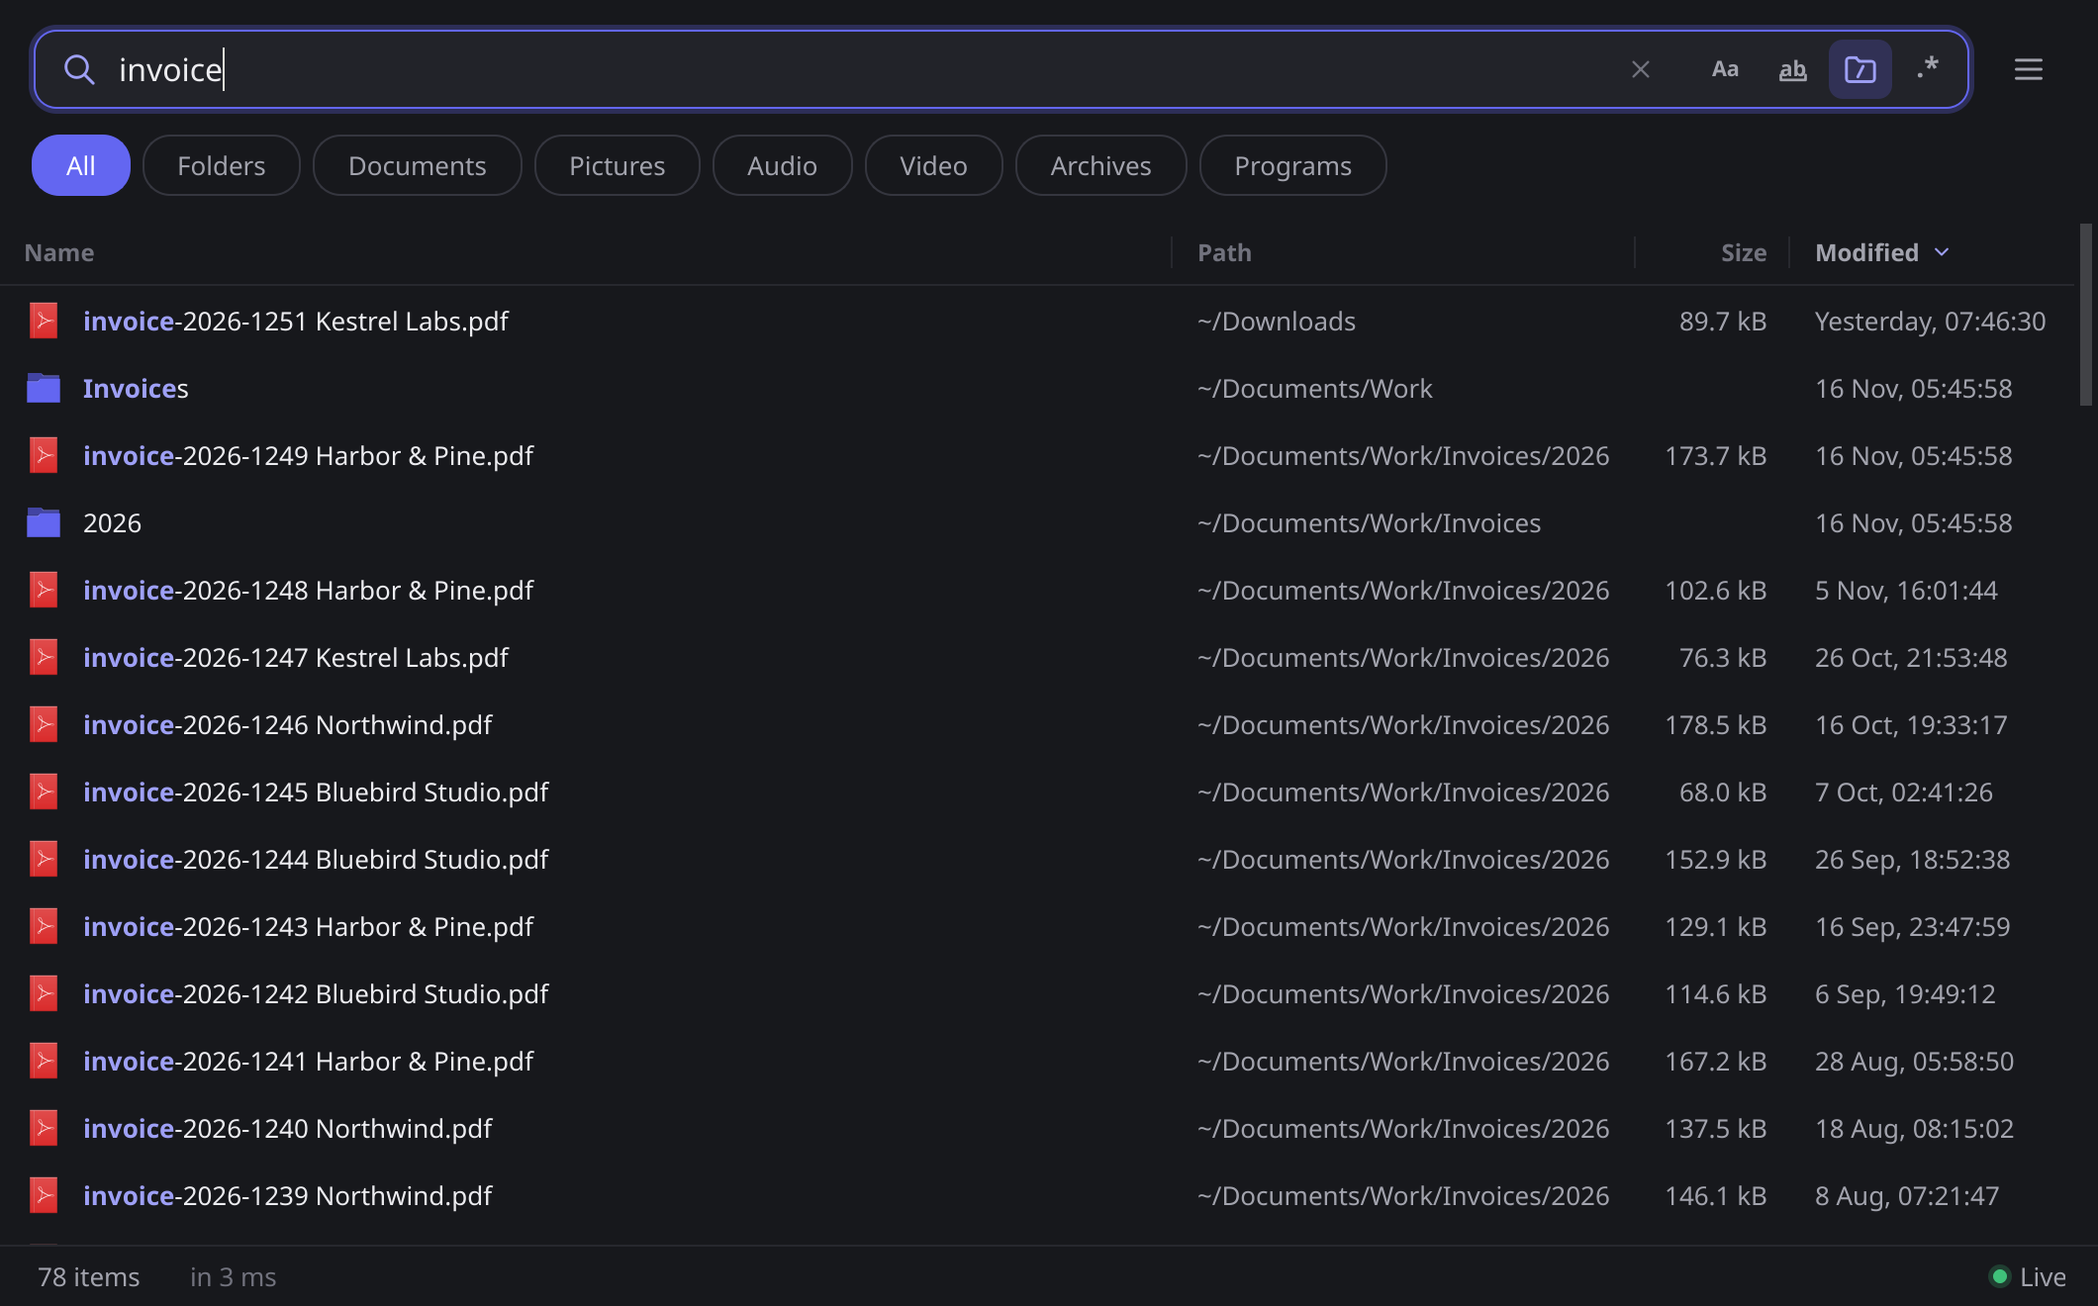
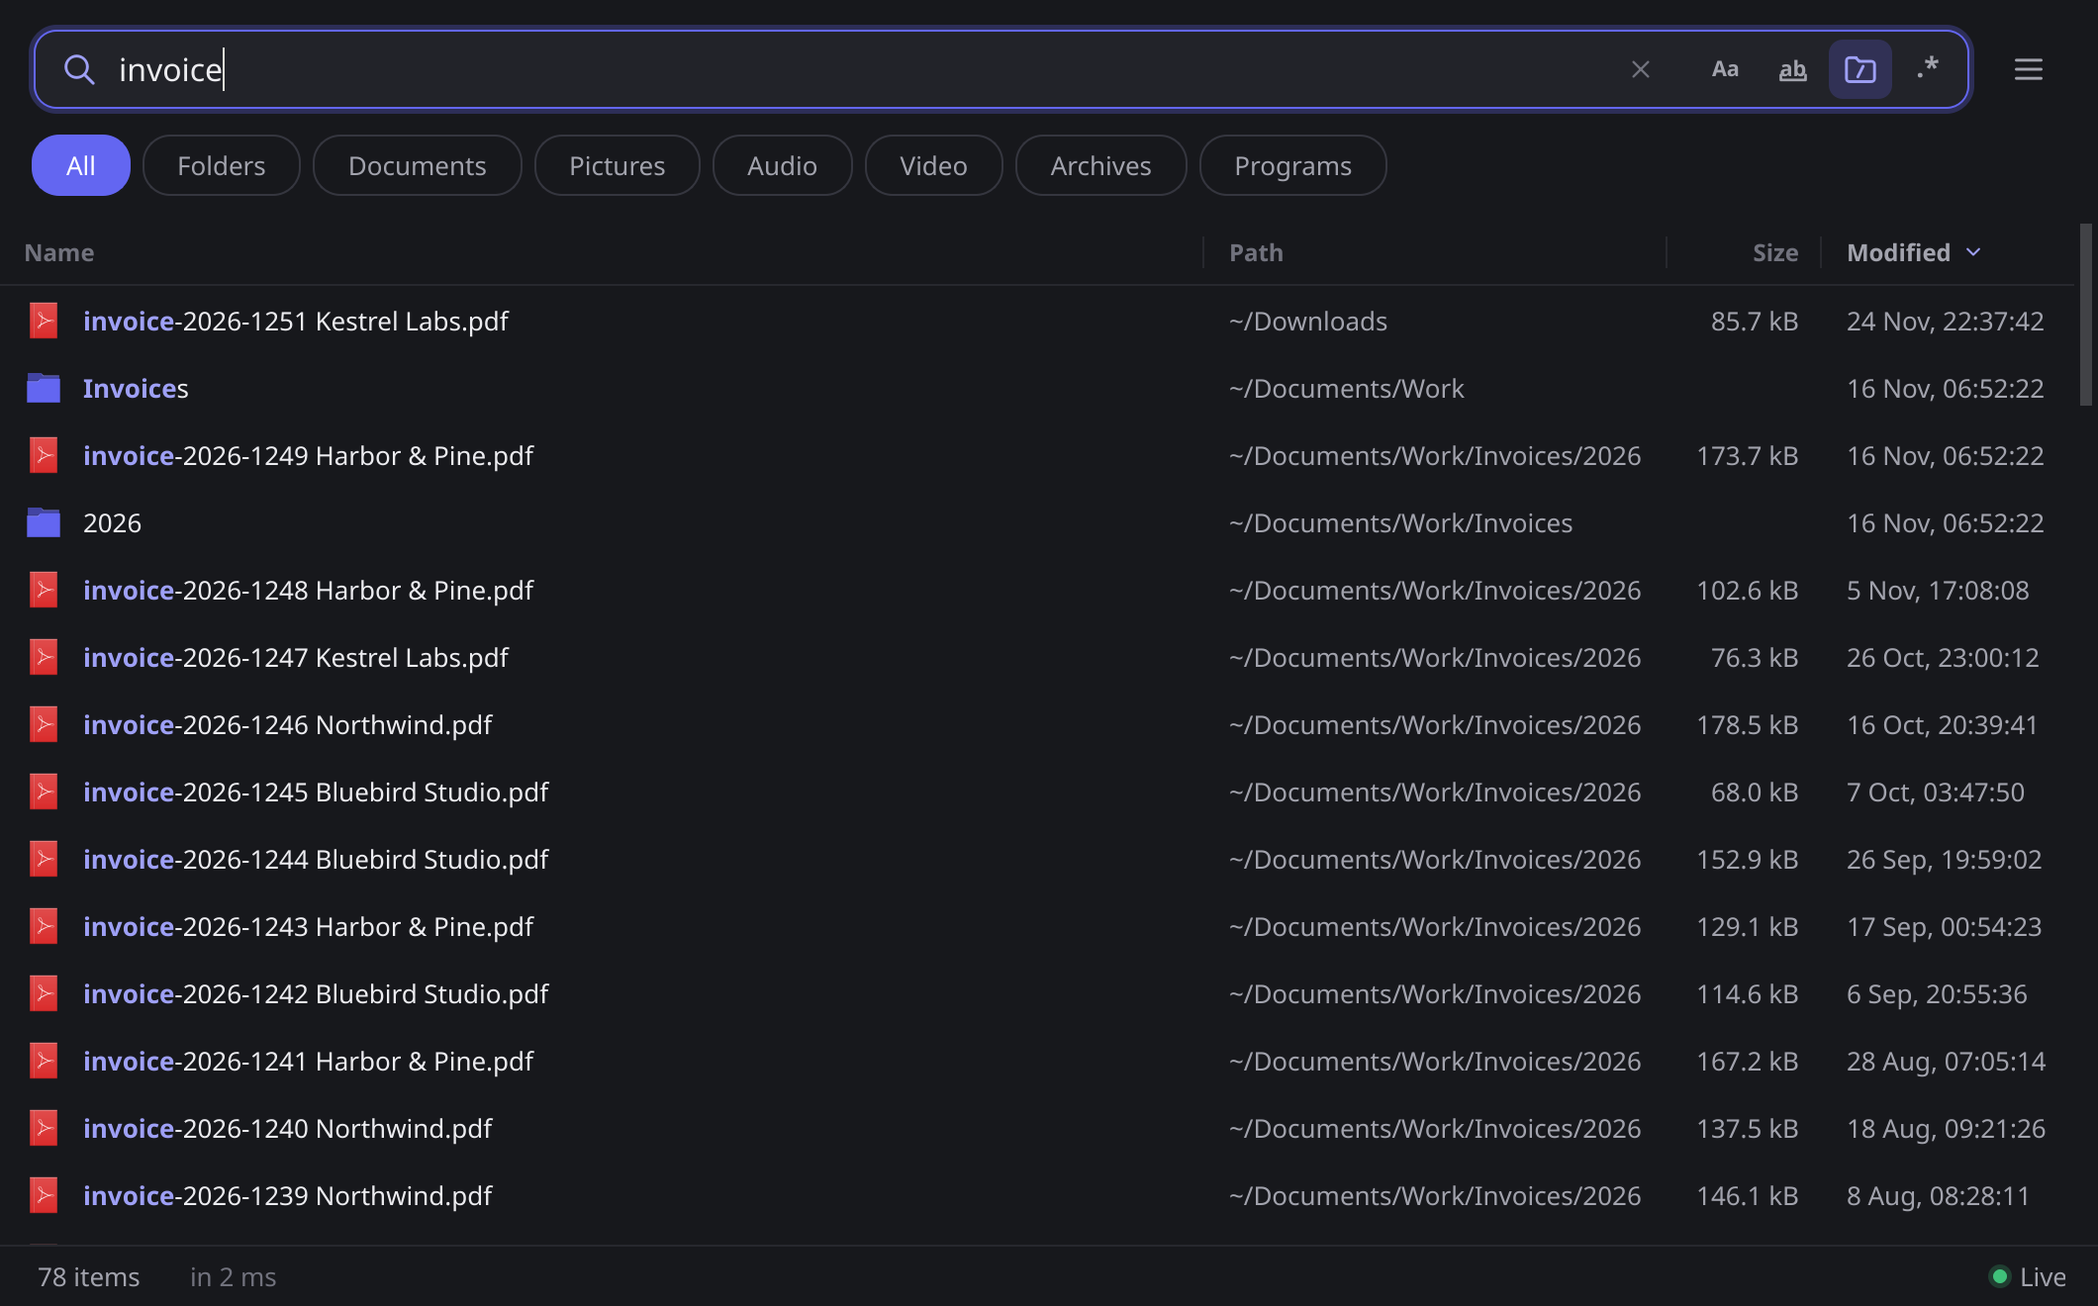
Website: one page for trawlr.io, published with GitHub Pages
site/index.html; the Pages workflow adds the README pictures and icon.
The demo pictures are retaken so the newest files on the made-up machine
are the user's own, not the container's setup. Drops assets/icon.svg,
the unused icon from before the rename.

diff --git a/site/index.html b/site/index.html
@@ -1,0 +1,256 @@
+<!doctype html>
+<html lang="en">
+<head>
+<meta charset="utf-8">
+<meta name="viewport" content="width=device-width, initial-scale=1">
+<title>Trawlr: instant file name search for Linux, Windows and macOS</title>
+<meta name="description" content="Type a few letters and every matching file and folder on your computer is listed before you finish the word. Free and open source, with an index that is always current.">
+<meta property="og:title" content="Trawlr">
+<meta property="og:description" content="Instant file name search for Linux, Windows and macOS, with an index that is always current.">
+<meta property="og:image" content="https://trawlr.io/screenshot-dark.png">
+<meta property="og:url" content="https://trawlr.io/">
+<meta name="twitter:card" content="summary_large_image">
+<link rel="icon" href="icon.svg" type="image/svg+xml">
+<style>
+:root {
+  --accent: #6366f1;
+  --accent-strong: #4f46e5;
+  --on-accent: #ffffff;
+  --canvas: #ffffff;
+  --surface: #f7f7f9;
+  --elevated: #ffffff;
+  --border: #e3e3ea;
+  --text: #18181d;
+  --dim: #5b5c66;
+  --faint: #8a8b96;
+  --code: #f1f1f5;
+  --shadow: 0 24px 60px -20px rgba(30, 30, 60, .28), 0 2px 6px rgba(30, 30, 60, .08);
+  color-scheme: light;
+}
+@media (prefers-color-scheme: dark) {
+  :root {
+    --accent: #7c7ff5;
+    --accent-strong: #6366f1;
+    --canvas: #121317;
+    --surface: #17181c;
+    --elevated: #1c1d22;
+    --border: #2c2d35;
+    --text: #ececf0;
+    --dim: #a2a3ad;
+    --faint: #71727d;
+    --code: #22232a;
+    --shadow: 0 30px 80px -20px rgba(0, 0, 0, .7), 0 2px 8px rgba(0, 0, 0, .4);
+    color-scheme: dark;
+  }
+}
+* { box-sizing: border-box; }
+html { -webkit-text-size-adjust: 100%; scroll-behavior: smooth; }
+body {
+  margin: 0; background: var(--canvas); color: var(--text);
+  font: 16px/1.6 system-ui, -apple-system, "Segoe UI", "Noto Sans", Ubuntu, Cantarell, sans-serif;
+}
+a { color: var(--accent); text-decoration: none; }
+a:hover { text-decoration: underline; }
+code, pre { font-family: ui-monospace, "SF Mono", "Cascadia Code", "JetBrains Mono", "Noto Sans Mono", Menlo, monospace; font-size: .9em; }
+code { background: var(--code); padding: .12em .4em; border-radius: 5px; }
+.wrap { max-width: 1080px; margin: 0 auto; padding: 0 24px; }
+
+header { position: sticky; top: 0; z-index: 10; background: color-mix(in srgb, var(--canvas) 85%, transparent); backdrop-filter: blur(10px); border-bottom: 1px solid var(--border); }
+header .wrap { display: flex; align-items: center; gap: 24px; height: 60px; }
+.brand { display: flex; align-items: center; gap: 10px; font-weight: 700; font-size: 18px; color: var(--text); }
+.brand:hover { text-decoration: none; }
+.brand img { width: 28px; height: 28px; }
+nav { margin-left: auto; display: flex; gap: 22px; font-size: 15px; }
+nav a { color: var(--dim); }
+nav a:hover { color: var(--text); text-decoration: none; }
+
+.hero { text-align: center; padding: 72px 0 40px; }
+.hero h1 { font-size: clamp(34px, 6vw, 58px); line-height: 1.08; letter-spacing: -.025em; margin: 0 auto 18px; max-width: 14ch; }
+.hero p.lead { font-size: clamp(17px, 2.2vw, 20px); color: var(--dim); max-width: 40em; margin: 0 auto 30px; }
+.cta { display: flex; gap: 12px; justify-content: center; flex-wrap: wrap; }
+.btn { display: inline-flex; align-items: center; gap: 8px; padding: 12px 22px; border-radius: 10px; font-weight: 600; font-size: 16px; border: 1px solid var(--border); color: var(--text); background: var(--elevated); }
+.btn:hover { text-decoration: none; border-color: var(--faint); }
+.btn.primary { background: var(--accent-strong); border-color: var(--accent-strong); color: var(--on-accent); }
+.btn.primary:hover { background: var(--accent); border-color: var(--accent); }
+.btn svg { width: 18px; height: 18px; }
+.sub { margin-top: 14px; font-size: 14px; color: var(--faint); }
+.shot { margin: 48px auto 0; max-width: 1000px; border-radius: 14px; overflow: hidden; border: 1px solid var(--border); box-shadow: var(--shadow); background: #17181c; }
+.shot img { display: block; width: 100%; height: auto; }
+
+section { padding: 64px 0; }
+section h2 { font-size: clamp(26px, 3.6vw, 34px); letter-spacing: -.02em; margin: 0 0 10px; }
+section p.intro { color: var(--dim); margin: 0 0 32px; max-width: 46em; }
+.grid { display: grid; grid-template-columns: repeat(auto-fit, minmax(230px, 1fr)); gap: 18px; }
+.card { min-width: 0; background: var(--surface); border: 1px solid var(--border); border-radius: 12px; padding: 22px; }
+.card h3 { margin: 0 0 8px; font-size: 17px; }
+.card p { margin: 0; color: var(--dim); font-size: 15px; }
+.card .num { font-size: 30px; font-weight: 700; letter-spacing: -.02em; color: var(--accent); line-height: 1.1; margin-bottom: 6px; }
+
+table { width: 100%; border-collapse: collapse; font-size: 15px; }
+th, td { text-align: left; padding: 10px 12px; border-bottom: 1px solid var(--border); vertical-align: top; }
+th { color: var(--faint); font-weight: 600; font-size: 13px; text-transform: uppercase; letter-spacing: .04em; }
+td:first-child { white-space: nowrap; }
+.tablewrap { overflow-x: auto; background: var(--surface); border: 1px solid var(--border); border-radius: 12px; }
+.tablewrap table tr:last-child td { border-bottom: 0; }
+
+.platforms { display: grid; grid-template-columns: repeat(auto-fit, minmax(300px, 1fr)); gap: 18px; }
+.platform h3 { display: flex; align-items: center; gap: 10px; }
+.platform ul { margin: 10px 0 0; padding-left: 18px; color: var(--dim); font-size: 15px; }
+.platform li { margin: 6px 0; }
+pre { background: var(--code); border-radius: 8px; padding: 10px 12px; margin: 10px 0 4px; white-space: pre-wrap; overflow-wrap: anywhere; }
+pre code { background: none; padding: 0; }
+
+footer { border-top: 1px solid var(--border); padding: 32px 0 48px; color: var(--faint); font-size: 14px; }
+footer .wrap { display: flex; flex-wrap: wrap; gap: 8px 24px; justify-content: space-between; }
+footer a { color: var(--dim); }
+
+@media (max-width: 640px) {
+  .wrap { padding: 0 16px; }
+  nav { gap: 14px; font-size: 14px; }
+  nav .hide-sm { display: none; }
+  .hero { padding-top: 48px; }
+  .shot { border-radius: 10px; margin-top: 36px; }
+}
+</style>
+</head>
+<body>
+<header>
+  <div class="wrap">
+    <a class="brand" href="#"><img src="icon.svg" alt="">Trawlr</a>
+    <nav>
+      <a class="hide-sm" href="#why">Why</a>
+      <a class="hide-sm" href="#search">Search</a>
+      <a href="#download">Download</a>
+      <a href="https://github.com/SamuelCGilbert/trawlr">GitHub</a>
+    </nav>
+  </div>
+</header>
+
+<main>
+  <div class="wrap hero">
+    <h1>Find any file before you finish typing.</h1>
+    <p class="lead">Trawlr lists every matching file and folder on your computer as you type, and keeps up as files are created, renamed and deleted. No rescans, no waiting. Free and open source, for Linux, Windows and macOS.</p>
+    <div class="cta">
+      <a class="btn primary" id="dl" href="#download">
+        <svg viewBox="0 0 24 24" fill="none" stroke="currentColor" stroke-width="2.2" stroke-linecap="round" stroke-linejoin="round"><path d="M12 4v11m0 0-4.5-4.5M12 15l4.5-4.5M5 20h14"/></svg>
+        <span id="dl-label">Download</span>
+      </a>
+      <a class="btn" href="https://github.com/SamuelCGilbert/trawlr">
+        <svg viewBox="0 0 24 24" fill="currentColor"><path d="M12 2a10 10 0 0 0-3.16 19.49c.5.09.68-.22.68-.48v-1.7c-2.78.6-3.37-1.34-3.37-1.34-.45-1.16-1.11-1.47-1.11-1.47-.91-.62.07-.6.07-.6 1 .07 1.53 1.03 1.53 1.03.9 1.52 2.34 1.08 2.91.83.09-.65.35-1.09.63-1.34-2.22-.25-4.55-1.11-4.55-4.94 0-1.09.39-1.98 1.03-2.68-.1-.25-.45-1.27.1-2.65 0 0 .84-.27 2.75 1.02a9.6 9.6 0 0 1 5 0c1.91-1.29 2.75-1.02 2.75-1.02.55 1.38.2 2.4.1 2.65.64.7 1.03 1.59 1.03 2.68 0 3.84-2.34 4.68-4.57 4.93.36.31.68.92.68 1.85v2.74c0 .27.18.58.69.48A10 10 0 0 0 12 2z"/></svg>
+        Source code
+      </a>
+    </div>
+    <div class="sub" id="dl-sub">Free, open source (GPL-3.0). No account, no telemetry.</div>
+    <div class="shot"><img src="demo.gif" width="1060" height="660" alt="Typing “invoice” lists 78 matches in 2 milliseconds. A new invoice saved to Downloads appears at the top while the search is open. Then “ext:flac” lists the music."></div>
+  </div>
+
+  <section id="why">
+    <div class="wrap">
+      <h2>Fast because it never walks the disk</h2>
+      <p class="intro">Most search tools crawl folders on a schedule, so they are slow to build and always a little out of date. Trawlr keeps every file name in memory and listens to the changes the operating system already records, so its index is built in seconds and is never stale.</p>
+      <div class="grid">
+        <div class="card"><div class="num">1–15 ms</div><h3>Typical search</h3><p>Across 2.8 million files and folders on a laptop. Every keystroke updates the results.</p></div>
+        <div class="card"><div class="num">&lt; 0.2 s</div><h3>New files show up</h3><p>A file created while a search is open appears in it straight away. Deleted files vanish just as fast.</p></div>
+        <div class="card"><div class="num">0.3 s</div><h3>To start</h3><p>The index is saved at shutdown and checked against the disk at start, so changes made while it was off are found too.</p></div>
+        <div class="card"><div class="num">~70 B</div><h3>Per file</h3><p>About 190 MB of memory for 2.8 million entries. Trawlr reads names, sizes and dates, never file contents.</p></div>
+      </div>
+    </div>
+  </section>
+
+  <section id="how" style="padding-top:0">
+    <div class="wrap">
+      <div class="grid">
+        <div class="card"><h3>Linux</h3><p>A system service watches each disk with a single filesystem-wide <code>fanotify</code> mark, so the kernel reports every change, however many folders there are.</p></div>
+        <div class="card"><h3>Windows</h3><p>A Windows service reads each NTFS drive's master file table directly (a million files in about two seconds) and follows its change journal.</p></div>
+        <div class="card"><h3>macOS</h3><p>A launchd daemon reads folders in bulk and follows FSEvents, whose history lets it carry on where it left off after a restart.</p></div>
+        <div class="card"><h3>Keyboard first</h3><p>A global hotkey brings up the window from anywhere. Open, open the folder, copy, or run in a terminal without touching the mouse.</p></div>
+      </div>
+    </div>
+  </section>
+
+  <section id="search" style="background:var(--surface);border-top:1px solid var(--border);border-bottom:1px solid var(--border)">
+    <div class="wrap">
+      <h2>Say exactly what you mean</h2>
+      <p class="intro">Plain words are enough most of the time. When they aren't, the search syntax will be familiar to anyone who has used voidtools' Everything on Windows.</p>
+      <div class="tablewrap">
+        <table>
+          <tr><th>Search</th><th>Finds</th></tr>
+          <tr><td><code>tax 2025</code></td><td>names containing both words</td></tr>
+          <tr><td><code>*.pdf</code>, <code>ext:jpg;png</code></td><td>by wildcard or extension</td></tr>
+          <tr><td><code>photos/ beach</code></td><td>a term with <code>/</code> matches the path, so: “beach”, somewhere under a <em>photos</em> folder</td></tr>
+          <tr><td><code>size:&gt;1gb</code>, <code>dm:lastweek</code></td><td>by size or date modified</td></tr>
+          <tr><td><code>video: !sample</code></td><td>by kind, leaving some out</td></tr>
+          <tr><td><code>regex:^IMG_\d{4}\.jpe?g$</code></td><td>regular expressions, when nothing else will do</td></tr>
+        </table>
+      </div>
+      <p style="margin:18px 0 0;color:var(--dim);font-size:15px">The <a href="https://github.com/SamuelCGilbert/trawlr#search-syntax">full syntax</a> is in the README. There is a <code>trawlr</code> command for the terminal too: <code>trawlr ext:iso size:&gt;1gb</code>.</p>
+    </div>
+  </section>
+
+  <section id="download">
+    <div class="wrap">
+      <h2>Download</h2>
+      <p class="intro">Every download is on the <a href="https://github.com/SamuelCGilbert/trawlr/releases/latest">latest release</a> page, with checksums. Installing needs an administrator, because the indexing service reads every disk; then administrators can search, and you can <a href="https://github.com/SamuelCGilbert/trawlr#who-can-search">let others in</a>.</p>
+      <div class="platforms">
+        <div class="card platform" id="p-windows">
+          <h3>Windows</h3>
+          <p>Windows 10 or 11, x64.</p>
+          <ul>
+            <li><a data-asset="windows-x64-setup.exe" href="https://github.com/SamuelCGilbert/trawlr/releases/latest">Installer (.exe)</a></li>
+            <li>Not code-signed: if SmartScreen stops it, click <em>More info</em>, then <em>Run anyway</em>.</li>
+          </ul>
+        </div>
+        <div class="card platform" id="p-mac">
+          <h3>macOS</h3>
+          <p>macOS 12 or newer, Apple Silicon and Intel.</p>
+          <pre><code>brew install --cask samuelcgilbert/trawlr/trawlr</code></pre>
+          <ul>
+            <li>Or the <a data-asset="macos.pkg" href="https://github.com/SamuelCGilbert/trawlr/releases/latest">installer package (.pkg)</a>: not signed with an Apple Developer ID, so right-click it and choose <em>Open</em> the first time.</li>
+            <li>Then give the daemon <a href="https://github.com/SamuelCGilbert/trawlr#macos">Full Disk Access</a>.</li>
+          </ul>
+        </div>
+        <div class="card platform" id="p-linux">
+          <h3>Linux</h3>
+          <p>Linux 5.9 or newer with systemd; x86-64 and ARM64.</p>
+          <ul>
+            <li>Ubuntu 22.04 and 24.04, Debian 12 and 13, and their derivatives: <code>.deb</code></li>
+            <li>Fedora and openSUSE Tumbleweed: <code>.rpm</code></li>
+            <li>Arch: <code>.pkg.tar.zst</code></li>
+            <li>Anything else: <a href="https://github.com/SamuelCGilbert/trawlr#from-source">build from source</a> with <code>./install.sh</code>.</li>
+          </ul>
+        </div>
+      </div>
+    </div>
+  </section>
+</main>
+
+<footer>
+  <div class="wrap">
+    <span>Trawlr is free software under the <a href="https://github.com/SamuelCGilbert/trawlr/blob/main/LICENSE">GPL-3.0</a>. Not affiliated with voidtools.</span>
+    <span><a href="https://github.com/SamuelCGilbert/trawlr/issues">Report a problem</a> · <a href="https://github.com/SamuelCGilbert/trawlr/blob/main/SECURITY.md">Security</a> · <a href="https://github.com/SamuelCGilbert/trawlr">GitHub</a></span>
+  </div>
+</footer>
+
+<script>
+// Point the download links at the files of the latest release, and the big
+// button at the one for this system. Without the API, they go to the
+// release page, which is fine too.
+(function () {
+  var ua = navigator.userAgent, os = /Windows/.test(ua) ? "windows" : /Mac OS X|Macintosh/.test(ua) && !/iPhone|iPad/.test(ua) ? "mac" : /Linux|X11/.test(ua) && !/Android/.test(ua) ? "linux" : null;
+  var label = document.getElementById("dl-label"), btn = document.getElementById("dl"), sub = document.getElementById("dl-sub");
+  var names = { windows: "Download for Windows", mac: "Download for macOS", linux: "Download for Linux" };
+  if (os) { label.textContent = names[os]; btn.href = "#p-" + os; }
+  fetch("https://api.github.com/repos/SamuelCGilbert/trawlr/releases/latest").then(function (r) { return r.ok ? r.json() : null; }).then(function (rel) {
+    if (!rel || !rel.assets) return;
+    var find = function (end) { for (var i = 0; i < rel.assets.length; i++) if (rel.assets[i].name.slice(-end.length) === end) return rel.assets[i]; };
+    document.querySelectorAll("[data-asset]").forEach(function (a) { var f = find(a.getAttribute("data-asset")); if (f) a.href = f.browser_download_url; });
+    var v = rel.tag_name.replace(/^v/, "");
+    var direct = { windows: "windows-x64-setup.exe", mac: "macos.pkg" }[os];
+    var f = direct && find(direct);
+    if (f) { btn.href = f.browser_download_url; label.textContent = names[os] + " (" + v + ")"; }
+    sub.textContent = "Version " + v + ". Free, open source (GPL-3.0). No account, no telemetry.";
+  }).catch(function () {});
+})();
+</script>
+</body>
+</html>

diff --git a/tests/demo/tree.py b/tests/demo/tree.py
@@ -72,8 +72,11 @@ def main(home):
                 put(d("Pictures", "Camera", str(year), month, f"VID_{n:04d}.mp4"), mb(30, 400), max(age, 0))
                 n += 1
     for i in range(140):
-        put(d("Pictures", "Screenshots", f"Screenshot_2026{rng.randrange(1, 12):02d}{rng.randrange(1, 28):02d}_{rng.randrange(100000, 235959)}.png"),
-            kb(80, 900), rng.randrange(0, 330))
+        age = rng.uniform(1, 330)
+        when = time.strftime("%Y%m%d_%H%M%S", time.localtime(NOW - age * DAY))
+        path = d("Pictures", "Screenshots", f"Screenshot_{when}.png")
+        put(path, kb(80, 900), 0)
+        os.utime(path, (NOW - age * DAY,) * 2)
     for w in ["aurora", "dunes", "fjord", "redwoods", "tidepool", "nebula"]:
         put(d("Pictures", "Wallpapers", f"{w}-3840x2160.jpg"), mb(3, 9), rng.randrange(100, 700))
 
@@ -139,7 +142,7 @@ def main(home):
     # The usual hidden clutter.
     for i in range(6000):
         put(d(".cache", rng.choice(["thumbnails/large", "thumbnails/normal", "fontconfig", "pip/http"]), f"{rng.getrandbits(128):032x}"),
-            kb(1, 200), rng.randrange(0, 400))
+            kb(1, 200), rng.randrange(5, 400))
     for f in [".bashrc", ".profile", ".gitconfig"]:
         put(d(f), kb(0.5, 4), rng.randrange(100, 700))
 
